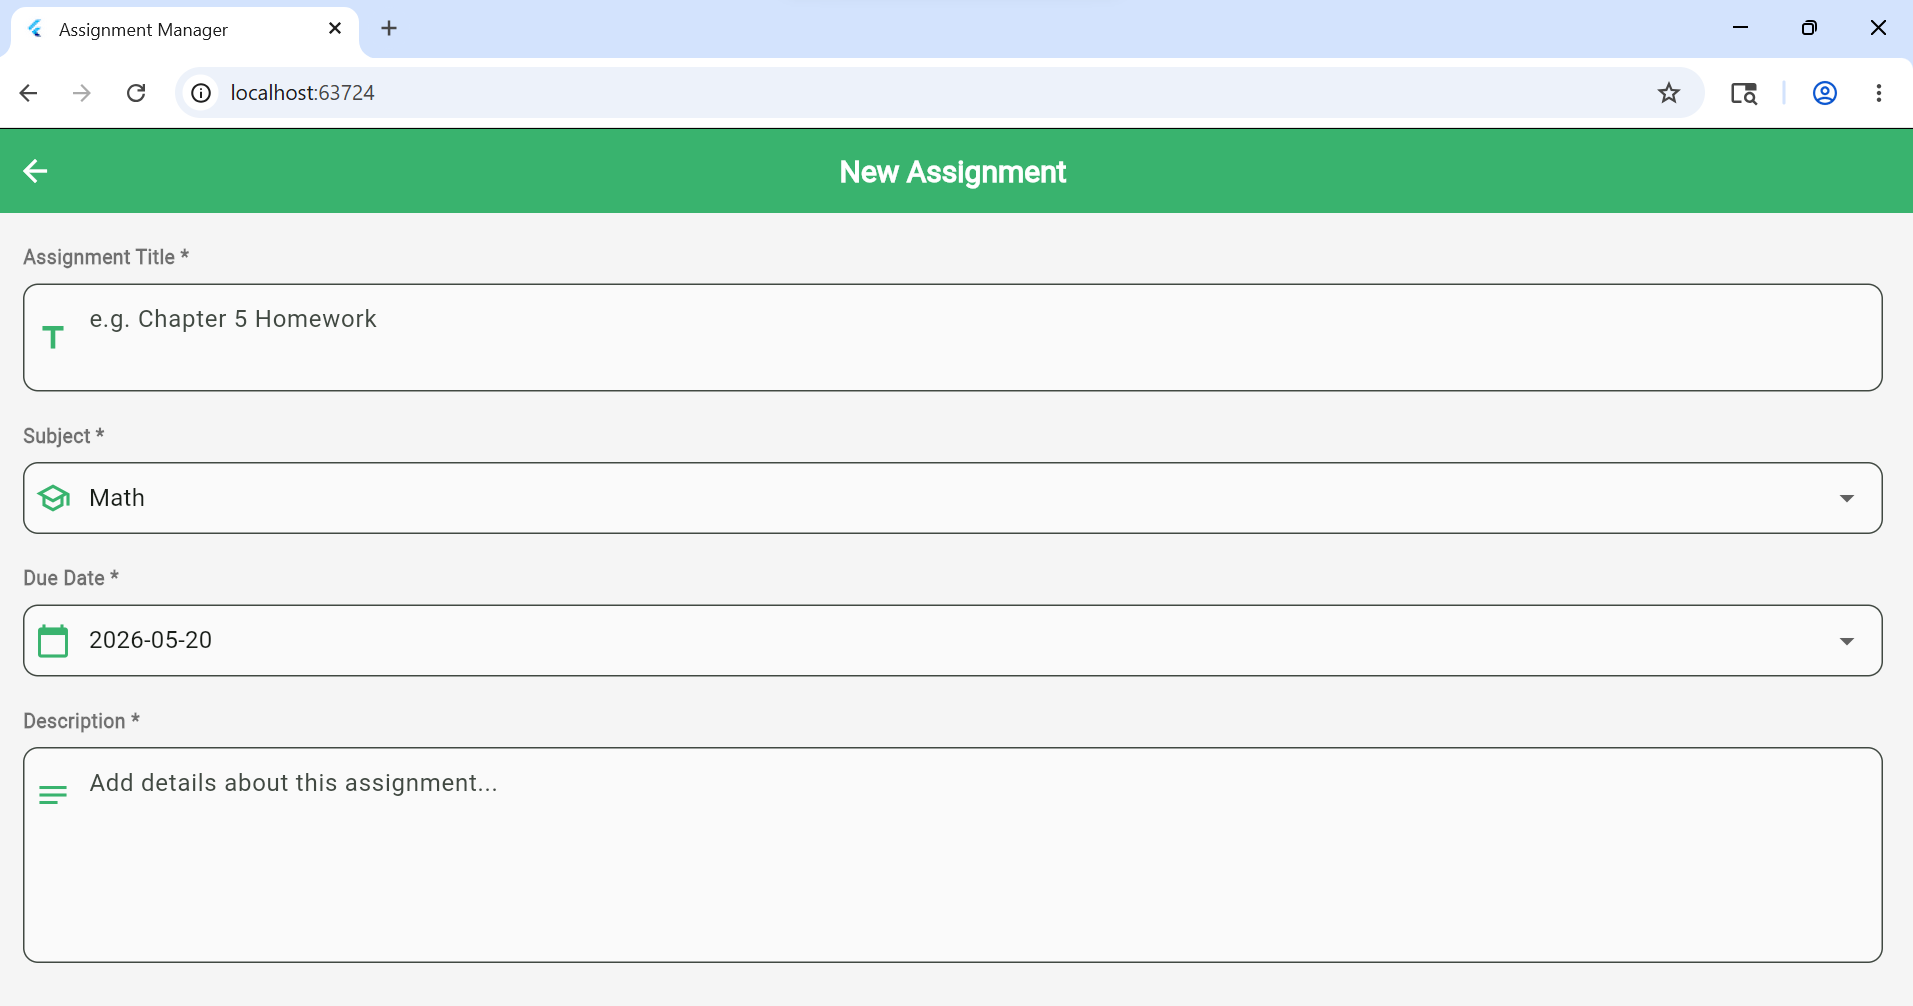
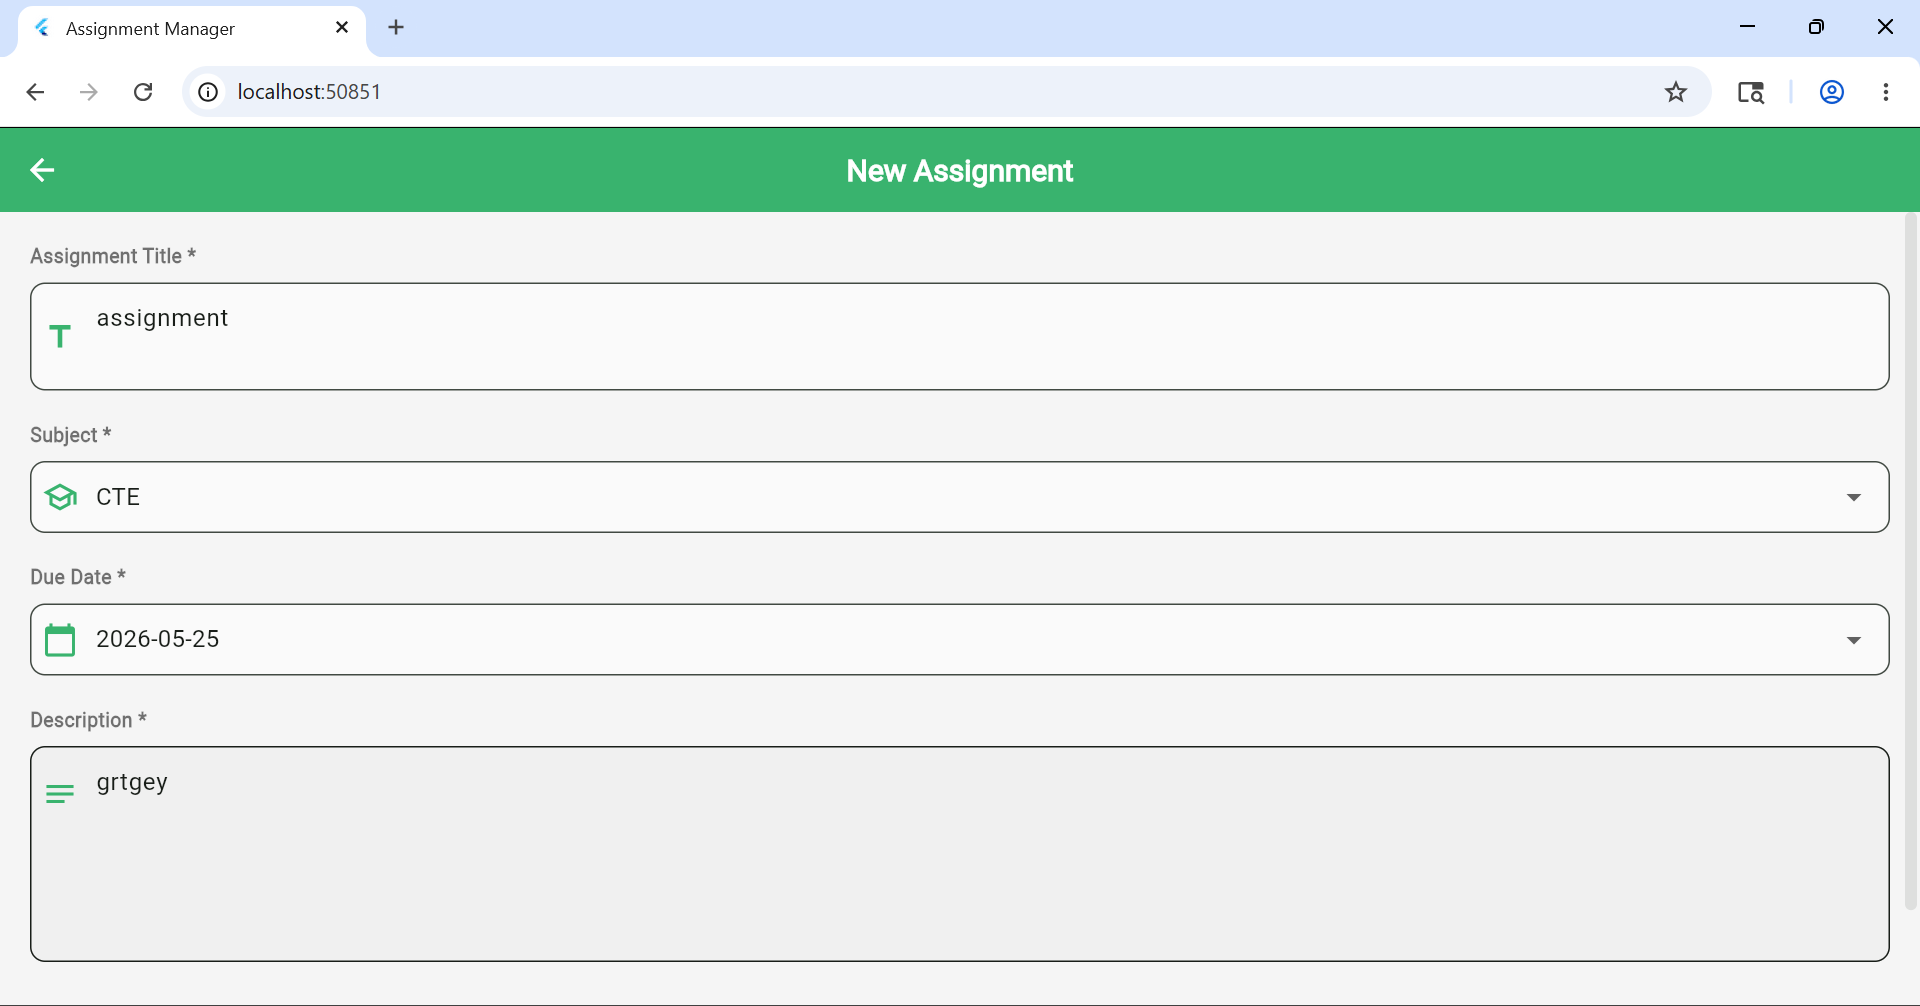
Update home screen and screenshots

diff --git a/lib/screens/home_screen.dart b/lib/screens/home_screen.dart
@@ -51,15 +51,6 @@ class _StatsBar extends StatelessWidget {
       padding: const EdgeInsets.fromLTRB(16, 0, 16, 16),
       child: Column(
         children: [
-          Row(
-            children: [
-              _StatChip(label: 'Tasks', value: provider.totalCount, color: Colors.white),
-              const SizedBox(width: 12),
-              _StatChip(label: 'Passed', value: provider.completedCount, color: Colors.greenAccent),
-              const SizedBox(width: 12),
-              _StatChip(label: 'Due', value: provider.pendingCount, color: Colors.orangeAccent),
-            ],
-          ),
           const SizedBox(height: 10),
           ClipRRect(
             borderRadius: BorderRadius.circular(10),
@@ -78,39 +69,6 @@ class _StatsBar extends StatelessWidget {
             style: const TextStyle(color: Colors.white70, fontSize: 11),
           ),
         ],
-      ),
-    );
-  }
-}
-
-class _StatChip extends StatelessWidget {
-  final String label;
-  final int value;
-  final Color color;
-
-  const _StatChip({required this.label, required this.value, required this.color});
-
-  @override
-  Widget build(BuildContext context) {
-    return Container(
-      padding: const EdgeInsets.symmetric(horizontal: 14, vertical: 8),
-      decoration: BoxDecoration(
-        color: Colors.white.withValues(alpha:0.15),
-        borderRadius: BorderRadius.circular(20),
-      ),
-      child: RichText(
-        text: TextSpan(
-          children: [
-            TextSpan(
-              text: '$value ',
-              style: TextStyle(color: color, fontWeight: FontWeight.bold, fontSize: 16),
-            ),
-            TextSpan(
-              text: label,
-              style: const TextStyle(color: Colors.white70, fontSize: 13),
-            ),
-          ],
-        ),
       ),
     );
   }
